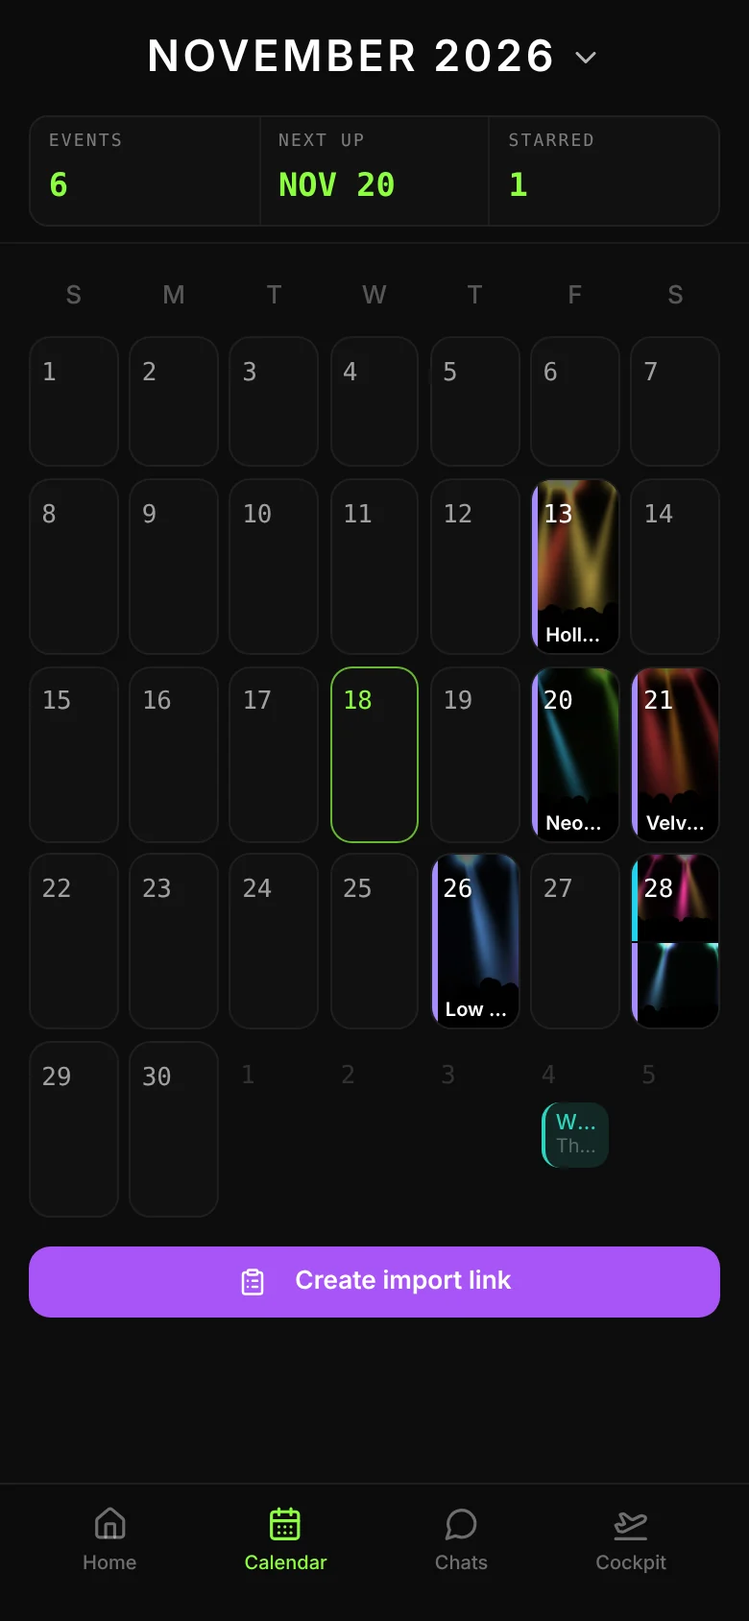
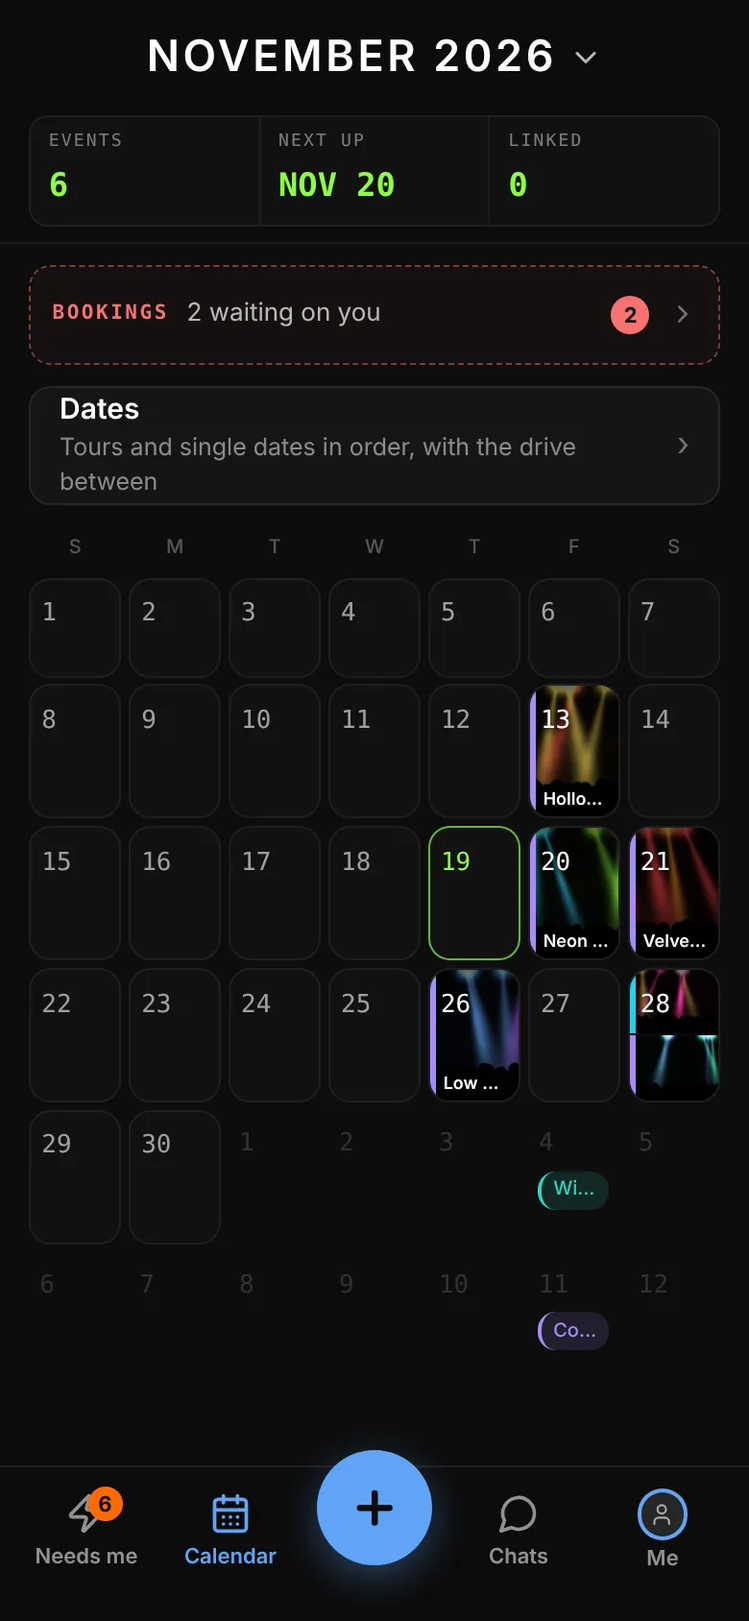
Marketing site: Calendar screens retaken on the venue calendar, without the tech filters and Create intake link (job 373)
The Calendar shots in the Venue and Artist tours were taken on /calendar
(the audio / lighting tech calendar). Retaken at /band/calendar as a venue:
desktop with Neon Harbor picked, phone with Bookings and Dates.

Claude-Session: https://claude.ai/code/session_011F6hS4tKCc4ba8UPZXku15

diff --git a/site/index.html b/site/index.html
@@ -102,7 +102,7 @@
           <div class="tour-list" role="tablist" aria-label="Venue features"><button type="button" role="tab" class="tour-tab" id="t-venue-0" aria-controls="p-venue-0" aria-selected="true"><span class="n">01</span><span class="tt">One page per event<small>Every profile around the show, and how ready each one is.</small></span><span class="meter"><span></span></span></button><button type="button" role="tab" class="tour-tab" id="t-venue-1" aria-controls="p-venue-1" aria-selected="false" tabindex="-1"><span class="n">02</span><span class="tt">Packages in, dates and techs<small>An artist or manager sends a package. Confirm a date, then ask a tech you trust.</small></span><span class="meter"><span></span></span></button><button type="button" role="tab" class="tour-tab" id="t-venue-2" aria-controls="p-venue-2" aria-selected="false" tabindex="-1"><span class="n">03</span><span class="tt">Your venue as a web<small>Your room filled in once, every section a circle. It fills each event, and acts and techs can open it.</small></span><span class="meter"><span></span></span></button><button type="button" role="tab" class="tour-tab" id="t-venue-3" aria-controls="p-venue-3" aria-selected="false" tabindex="-1"><span class="n">04</span><span class="tt">Tasks with due dates<small>Hand out what needs doing, and see who has it and when it&#x27;s due.</small></span><span class="meter"><span></span></span></button><button type="button" role="tab" class="tour-tab" id="t-venue-4" aria-controls="p-venue-4" aria-selected="false" tabindex="-1"><span class="n">05</span><span class="tt">Chat rooms<small>A room for everyone on the event, plus one for each profile.</small></span><span class="meter"><span></span></span></button><button type="button" role="tab" class="tour-tab" id="t-venue-5" aria-controls="p-venue-5" aria-selected="false" tabindex="-1"><span class="n">06</span><span class="tt">Calendar<small>Every event you&#x27;re on, with its photo filling the day.</small></span><span class="meter"><span></span></span></button><button type="button" role="tab" class="tour-tab" id="t-venue-6" aria-controls="p-venue-6" aria-selected="false" tabindex="-1"><span class="n">07</span><span class="tt">Day sheets and PDFs<small>Send a day-of link to door staff or a driver. Each sheet saves as a PDF.</small></span><span class="meter"><span></span></span></button></div>
         </div>
         <div class="tour-stage">
-          <div class="slide" role="tabpanel" id="p-venue-0" aria-labelledby="t-venue-0"><div class="v-desk"><figure class="browser" style="--ar:1.600"><div class="browser-bar" aria-hidden="true"><i></i><i></i><i></i><span>showpilot.space</span></div><img src="/shots/event-web.webp" width="1600" height="1000" loading="lazy" alt="The event web: the event in the middle with Venue, Manager, Artist, Audio and Lights around it, the board and the flight log."></figure></div><div class="v-phone"><figure class="phone"><img src="/shots/event-web-phone.webp" width="600" height="1298" loading="lazy" alt="One page per event on a phone"></figure></div></div><div class="slide" role="tabpanel" id="p-venue-1" aria-labelledby="t-venue-1" hidden><div class="v-desk"><div class="stack" style="--ar:1.546"><figure class="browser step" style="--ar:1.600;left:0.00%;top:0.00%;width:62.50%;z-index:1"><div class="browser-bar" aria-hidden="true"><i></i><i></i><i></i><span>1 · Their package comes in</span></div><img src="/shots/pkg-web.webp" width="1600" height="1000" loading="lazy" alt="1 · Their package comes in"></figure><figure class="browser step" style="--ar:1.600;left:18.75%;top:16.43%;width:62.50%;z-index:2"><div class="browser-bar" aria-hidden="true"><i></i><i></i><i></i><span>2 · Confirm a date</span></div><img src="/shots/pkg-confirm.webp" width="1600" height="1000" loading="lazy" alt="2 · Confirm a date"></figure><figure class="browser step" style="--ar:1.600;left:37.50%;top:32.85%;width:62.50%;z-index:3"><div class="browser-bar" aria-hidden="true"><i></i><i></i><i></i><span>3 · Ask a tech</span></div><img src="/shots/ask-tech.webp" width="1600" height="1000" loading="lazy" alt="A booking package from an artist manager, the three dates they want with one picked to confirm, and Ask a tech with the techs you have worked with."></figure></div></div><div class="v-phone two"><figure class="phone"><img src="/shots/pkg-confirm-phone.webp" width="600" height="1298" loading="lazy" alt="Packages in, dates and techs on a phone"></figure><figure class="phone"><img src="/shots/ask-tech-phone.webp" width="600" height="1298" loading="lazy" alt="Packages in, dates and techs"></figure></div></div><div class="slide" role="tabpanel" id="p-venue-2" aria-labelledby="t-venue-2" hidden><div class="v-desk"><figure class="browser" style="--ar:1.600"><div class="browser-bar" aria-hidden="true"><i></i><i></i><i></i><span>showpilot.space</span></div><img src="/shots/venue-web.webp" width="1600" height="1000" loading="lazy" alt="The Foundry Hall as a web: venue and address, load-in, schedule, Wi-Fi and power, house gear and hospitality, with House gear open."></figure></div><div class="v-phone"><figure class="phone"><img src="/shots/venue-web-phone.webp" width="600" height="1298" loading="lazy" alt="Your venue as a web on a phone"></figure></div></div><div class="slide" role="tabpanel" id="p-venue-3" aria-labelledby="t-venue-3" hidden><div class="v-desk"><figure class="browser" style="--ar:1.600"><div class="browser-bar" aria-hidden="true"><i></i><i></i><i></i><span>showpilot.space</span></div><img src="/shots/tasks.webp" width="1600" height="1000" loading="lazy" alt="Tasks in a column for each profile, each with a due date and who has claimed it."></figure></div><div class="v-phone"><figure class="phone"><img src="/shots/tasks-phone.webp" width="600" height="1298" loading="lazy" alt="Tasks with due dates on a phone"></figure></div></div><div class="slide" role="tabpanel" id="p-venue-4" aria-labelledby="t-venue-4" hidden><div class="v-desk"><figure class="browser" style="--ar:1.600"><div class="browser-bar" aria-hidden="true"><i></i><i></i><i></i><span>showpilot.space</span></div><img src="/shots/rooms.webp" width="1600" height="1000" loading="lazy" alt="The event&#x27;s General chat room with messages from the manager, venue and engineer."></figure></div><div class="v-phone"><figure class="phone"><img src="/shots/rooms-phone.webp" width="600" height="1298" loading="lazy" alt="Chat rooms on a phone"></figure></div></div><div class="slide" role="tabpanel" id="p-venue-5" aria-labelledby="t-venue-5" hidden><div class="v-desk"><figure class="browser" style="--ar:1.600"><div class="browser-bar" aria-hidden="true"><i></i><i></i><i></i><span>showpilot.space</span></div><img src="/shots/calendar.webp" width="1600" height="1000" loading="lazy" alt="The month calendar with each event photo filling its day."></figure></div><div class="v-phone"><figure class="phone"><img src="/shots/calendar-phone.webp" width="600" height="1298" loading="lazy" alt="Calendar on a phone"></figure></div></div><div class="slide" role="tabpanel" id="p-venue-6" aria-labelledby="t-venue-6" hidden><div class="v-desk"><figure class="browser" style="--ar:1.600"><div class="browser-bar" aria-hidden="true"><i></i><i></i><i></i><span>showpilot.space</span></div><img src="/shots/dayof-sheet-desk.webp" width="1600" height="1000" loading="lazy" alt="The day-of schedule and the contact sheet, each with Save PDF."></figure></div><div class="v-phone two"><figure class="phone"><img src="/shots/dayof-sheet.webp" width="600" height="1298" loading="lazy" alt="Day sheets and PDFs on a phone"></figure><figure class="phone"><img src="/shots/dayof-contacts.webp" width="600" height="1298" loading="lazy" alt="Day sheets and PDFs"></figure></div></div>
+          <div class="slide" role="tabpanel" id="p-venue-0" aria-labelledby="t-venue-0"><div class="v-desk"><figure class="browser" style="--ar:1.600"><div class="browser-bar" aria-hidden="true"><i></i><i></i><i></i><span>showpilot.space</span></div><img src="/shots/event-web.webp" width="1600" height="1000" loading="lazy" alt="The event web: the event in the middle with Venue, Manager, Artist, Audio and Lights around it, the board and the flight log."></figure></div><div class="v-phone"><figure class="phone"><img src="/shots/event-web-phone.webp" width="600" height="1298" loading="lazy" alt="One page per event on a phone"></figure></div></div><div class="slide" role="tabpanel" id="p-venue-1" aria-labelledby="t-venue-1" hidden><div class="v-desk"><div class="stack" style="--ar:1.546"><figure class="browser step" style="--ar:1.600;left:0.00%;top:0.00%;width:62.50%;z-index:1"><div class="browser-bar" aria-hidden="true"><i></i><i></i><i></i><span>1 · Their package comes in</span></div><img src="/shots/pkg-web.webp" width="1600" height="1000" loading="lazy" alt="1 · Their package comes in"></figure><figure class="browser step" style="--ar:1.600;left:18.75%;top:16.43%;width:62.50%;z-index:2"><div class="browser-bar" aria-hidden="true"><i></i><i></i><i></i><span>2 · Confirm a date</span></div><img src="/shots/pkg-confirm.webp" width="1600" height="1000" loading="lazy" alt="2 · Confirm a date"></figure><figure class="browser step" style="--ar:1.600;left:37.50%;top:32.85%;width:62.50%;z-index:3"><div class="browser-bar" aria-hidden="true"><i></i><i></i><i></i><span>3 · Ask a tech</span></div><img src="/shots/ask-tech.webp" width="1600" height="1000" loading="lazy" alt="A booking package from an artist manager, the three dates they want with one picked to confirm, and Ask a tech with the techs you have worked with."></figure></div></div><div class="v-phone two"><figure class="phone"><img src="/shots/pkg-confirm-phone.webp" width="600" height="1298" loading="lazy" alt="Packages in, dates and techs on a phone"></figure><figure class="phone"><img src="/shots/ask-tech-phone.webp" width="600" height="1298" loading="lazy" alt="Packages in, dates and techs"></figure></div></div><div class="slide" role="tabpanel" id="p-venue-2" aria-labelledby="t-venue-2" hidden><div class="v-desk"><figure class="browser" style="--ar:1.600"><div class="browser-bar" aria-hidden="true"><i></i><i></i><i></i><span>showpilot.space</span></div><img src="/shots/venue-web.webp" width="1600" height="1000" loading="lazy" alt="The Foundry Hall as a web: venue and address, load-in, schedule, Wi-Fi and power, house gear and hospitality, with House gear open."></figure></div><div class="v-phone"><figure class="phone"><img src="/shots/venue-web-phone.webp" width="600" height="1298" loading="lazy" alt="Your venue as a web on a phone"></figure></div></div><div class="slide" role="tabpanel" id="p-venue-3" aria-labelledby="t-venue-3" hidden><div class="v-desk"><figure class="browser" style="--ar:1.600"><div class="browser-bar" aria-hidden="true"><i></i><i></i><i></i><span>showpilot.space</span></div><img src="/shots/tasks.webp" width="1600" height="1000" loading="lazy" alt="Tasks in a column for each profile, each with a due date and who has claimed it."></figure></div><div class="v-phone"><figure class="phone"><img src="/shots/tasks-phone.webp" width="600" height="1298" loading="lazy" alt="Tasks with due dates on a phone"></figure></div></div><div class="slide" role="tabpanel" id="p-venue-4" aria-labelledby="t-venue-4" hidden><div class="v-desk"><figure class="browser" style="--ar:1.600"><div class="browser-bar" aria-hidden="true"><i></i><i></i><i></i><span>showpilot.space</span></div><img src="/shots/rooms.webp" width="1600" height="1000" loading="lazy" alt="The event&#x27;s General chat room with messages from the manager, venue and engineer."></figure></div><div class="v-phone"><figure class="phone"><img src="/shots/rooms-phone.webp" width="600" height="1298" loading="lazy" alt="Chat rooms on a phone"></figure></div></div><div class="slide" role="tabpanel" id="p-venue-5" aria-labelledby="t-venue-5" hidden><div class="v-desk"><figure class="browser" style="--ar:1.600"><div class="browser-bar" aria-hidden="true"><i></i><i></i><i></i><span>showpilot.space</span></div><img src="/shots/calendar.webp" width="1600" height="1000" loading="lazy" alt="The venue calendar: each event photo filling its day, with Neon Harbor picked and its tasks and run of show beside it."></figure></div><div class="v-phone"><figure class="phone"><img src="/shots/calendar-phone.webp" width="600" height="1298" loading="lazy" alt="Calendar on a phone"></figure></div></div><div class="slide" role="tabpanel" id="p-venue-6" aria-labelledby="t-venue-6" hidden><div class="v-desk"><figure class="browser" style="--ar:1.600"><div class="browser-bar" aria-hidden="true"><i></i><i></i><i></i><span>showpilot.space</span></div><img src="/shots/dayof-sheet-desk.webp" width="1600" height="1000" loading="lazy" alt="The day-of schedule and the contact sheet, each with Save PDF."></figure></div><div class="v-phone two"><figure class="phone"><img src="/shots/dayof-sheet.webp" width="600" height="1298" loading="lazy" alt="Day sheets and PDFs on a phone"></figure><figure class="phone"><img src="/shots/dayof-contacts.webp" width="600" height="1298" loading="lazy" alt="Day sheets and PDFs"></figure></div></div>
           <div class="tour-nav">
             <button type="button" class="round" data-prev aria-label="Previous feature"><svg viewBox="0 0 24 24" aria-hidden="true"><path d="M15 18l-6-6 6-6"/></svg></button>
             <button type="button" class="round" data-play aria-label="Pause the slideshow"><svg class="i-pause" viewBox="0 0 24 24" aria-hidden="true"><path d="M9 6v12M15 6v12"/></svg><svg class="i-play" viewBox="0 0 24 24" aria-hidden="true"><path d="M8 5l11 7-11 7z"/></svg></button>
@@ -117,7 +117,7 @@
           <div class="tour-list" role="tablist" aria-label="Artist / DJ features"><button type="button" role="tab" class="tour-tab" id="t-band-0" aria-controls="p-band-0" aria-selected="true"><span class="n">01</span><span class="tt">Book a date from your template<small>Book a date opens as a web around your act, with your contact and tech rider already filled in from your template.</small></span><span class="meter"><span></span></span></button><button type="button" role="tab" class="tour-tab" id="t-band-1" aria-controls="p-band-1" aria-selected="false" tabindex="-1"><span class="n">02</span><span class="tt">Your stage plot, built once<small>Put each member on the stage. Open a line for their inputs: Mic or DI, +48V, and IEM or monitor.</small></span><span class="meter"><span></span></span></button><button type="button" role="tab" class="tour-tab" id="t-band-2" aria-controls="p-band-2" aria-selected="false" tabindex="-1"><span class="n">03</span><span class="tt">Tech rider with your stage plot<small>The stage plot and inputs from your template ride along with every booking.</small></span><span class="meter"><span></span></span></button><button type="button" role="tab" class="tour-tab" id="t-band-3" aria-controls="p-band-3" aria-selected="false" tabindex="-1"><span class="n">04</span><span class="tt">One page per event<small>Every profile around the show, and how ready each one is.</small></span><span class="meter"><span></span></span></button><button type="button" role="tab" class="tour-tab" id="t-band-4" aria-controls="p-band-4" aria-selected="false" tabindex="-1"><span class="n">05</span><span class="tt">Chat rooms<small>A room for everyone on the event, plus one for each profile.</small></span><span class="meter"><span></span></span></button><button type="button" role="tab" class="tour-tab" id="t-band-5" aria-controls="p-band-5" aria-selected="false" tabindex="-1"><span class="n">06</span><span class="tt">DJ Tools<small>Set links for each DJ. WAVs land in your own Google Drive.</small></span><span class="meter"><span></span></span></button><button type="button" role="tab" class="tour-tab" id="t-band-6" aria-controls="p-band-6" aria-selected="false" tabindex="-1"><span class="n">07</span><span class="tt">Calendar<small>Every event you&#x27;re on, with its photo filling the day.</small></span><span class="meter"><span></span></span></button></div>
         </div>
         <div class="tour-stage">
-          <div class="slide" role="tabpanel" id="p-band-0" aria-labelledby="t-band-0"><div class="v-desk"><figure class="browser" style="--ar:1.600"><div class="browser-bar" aria-hidden="true"><i></i><i></i><i></i><span>showpilot.space</span></div><img src="/shots/book-act.webp" width="1600" height="1000" loading="lazy" alt="Book a date as a web around the act: contact and tech rider already done from the template, the rest still to fill in."></figure></div><div class="v-phone"><figure class="phone"><img src="/shots/book-act-phone.webp" width="600" height="1298" loading="lazy" alt="Book a date from your template on a phone"></figure></div></div><div class="slide" role="tabpanel" id="p-band-1" aria-labelledby="t-band-1" hidden><div class="v-desk"><figure class="browser" style="--ar:1.600"><div class="browser-bar" aria-hidden="true"><i></i><i></i><i></i><span>showpilot.space</span></div><img src="/shots/stage-plot-open.webp" width="1600" height="1000" loading="lazy" alt="The stage plot with Marcus Dade&#x27;s line open: vocals, guitar on a mic, acoustic on a DI with +48V, and a monitor."></figure></div><div class="v-phone"><figure class="phone"><img src="/shots/stage-plot-open-phone.webp" width="600" height="1298" loading="lazy" alt="Your stage plot, built once on a phone"></figure></div></div><div class="slide" role="tabpanel" id="p-band-2" aria-labelledby="t-band-2" hidden><div class="v-desk"><figure class="browser" style="--ar:1.600"><div class="browser-bar" aria-hidden="true"><i></i><i></i><i></i><span>showpilot.space</span></div><img src="/shots/book-rider.webp" width="1600" height="1000" loading="lazy" alt="Book a date, Tech rider: the Show Pilot stage plot from My Template, 5 members and 9 inputs."></figure></div><div class="v-phone"><figure class="phone"><img src="/shots/book-rider-phone.webp" width="600" height="1298" loading="lazy" alt="Tech rider with your stage plot on a phone"></figure></div></div><div class="slide" role="tabpanel" id="p-band-3" aria-labelledby="t-band-3" hidden><div class="v-desk"><figure class="browser" style="--ar:1.600"><div class="browser-bar" aria-hidden="true"><i></i><i></i><i></i><span>showpilot.space</span></div><img src="/shots/event-web.webp" width="1600" height="1000" loading="lazy" alt="The event web: the event in the middle with Venue, Manager, Artist, Audio and Lights around it, the board and the flight log."></figure></div><div class="v-phone"><figure class="phone"><img src="/shots/event-web-phone.webp" width="600" height="1298" loading="lazy" alt="One page per event on a phone"></figure></div></div><div class="slide" role="tabpanel" id="p-band-4" aria-labelledby="t-band-4" hidden><div class="v-desk"><figure class="browser" style="--ar:1.600"><div class="browser-bar" aria-hidden="true"><i></i><i></i><i></i><span>showpilot.space</span></div><img src="/shots/rooms.webp" width="1600" height="1000" loading="lazy" alt="The event&#x27;s General chat room with messages from the manager, venue and engineer."></figure></div><div class="v-phone"><figure class="phone"><img src="/shots/rooms-phone.webp" width="600" height="1298" loading="lazy" alt="Chat rooms on a phone"></figure></div></div><div class="slide" role="tabpanel" id="p-band-5" aria-labelledby="t-band-5" hidden><div class="v-desk"><figure class="browser" style="--ar:1.600"><div class="browser-bar" aria-hidden="true"><i></i><i></i><i></i><span>showpilot.space</span></div><img src="/shots/dj-tools.webp" width="1600" height="1000" loading="lazy" alt="DJ Tools: a set link with the running order and which DJs have sent their set."></figure></div><div class="v-phone"><figure class="phone"><img src="/shots/dj-tools-phone.webp" width="600" height="1298" loading="lazy" alt="DJ Tools on a phone"></figure></div></div><div class="slide" role="tabpanel" id="p-band-6" aria-labelledby="t-band-6" hidden><div class="v-desk"><figure class="browser" style="--ar:1.600"><div class="browser-bar" aria-hidden="true"><i></i><i></i><i></i><span>showpilot.space</span></div><img src="/shots/calendar.webp" width="1600" height="1000" loading="lazy" alt="The month calendar with each event photo filling its day."></figure></div><div class="v-phone"><figure class="phone"><img src="/shots/calendar-phone.webp" width="600" height="1298" loading="lazy" alt="Calendar on a phone"></figure></div></div>
+          <div class="slide" role="tabpanel" id="p-band-0" aria-labelledby="t-band-0"><div class="v-desk"><figure class="browser" style="--ar:1.600"><div class="browser-bar" aria-hidden="true"><i></i><i></i><i></i><span>showpilot.space</span></div><img src="/shots/book-act.webp" width="1600" height="1000" loading="lazy" alt="Book a date as a web around the act: contact and tech rider already done from the template, the rest still to fill in."></figure></div><div class="v-phone"><figure class="phone"><img src="/shots/book-act-phone.webp" width="600" height="1298" loading="lazy" alt="Book a date from your template on a phone"></figure></div></div><div class="slide" role="tabpanel" id="p-band-1" aria-labelledby="t-band-1" hidden><div class="v-desk"><figure class="browser" style="--ar:1.600"><div class="browser-bar" aria-hidden="true"><i></i><i></i><i></i><span>showpilot.space</span></div><img src="/shots/stage-plot-open.webp" width="1600" height="1000" loading="lazy" alt="The stage plot with Marcus Dade&#x27;s line open: vocals, guitar on a mic, acoustic on a DI with +48V, and a monitor."></figure></div><div class="v-phone"><figure class="phone"><img src="/shots/stage-plot-open-phone.webp" width="600" height="1298" loading="lazy" alt="Your stage plot, built once on a phone"></figure></div></div><div class="slide" role="tabpanel" id="p-band-2" aria-labelledby="t-band-2" hidden><div class="v-desk"><figure class="browser" style="--ar:1.600"><div class="browser-bar" aria-hidden="true"><i></i><i></i><i></i><span>showpilot.space</span></div><img src="/shots/book-rider.webp" width="1600" height="1000" loading="lazy" alt="Book a date, Tech rider: the Show Pilot stage plot from My Template, 5 members and 9 inputs."></figure></div><div class="v-phone"><figure class="phone"><img src="/shots/book-rider-phone.webp" width="600" height="1298" loading="lazy" alt="Tech rider with your stage plot on a phone"></figure></div></div><div class="slide" role="tabpanel" id="p-band-3" aria-labelledby="t-band-3" hidden><div class="v-desk"><figure class="browser" style="--ar:1.600"><div class="browser-bar" aria-hidden="true"><i></i><i></i><i></i><span>showpilot.space</span></div><img src="/shots/event-web.webp" width="1600" height="1000" loading="lazy" alt="The event web: the event in the middle with Venue, Manager, Artist, Audio and Lights around it, the board and the flight log."></figure></div><div class="v-phone"><figure class="phone"><img src="/shots/event-web-phone.webp" width="600" height="1298" loading="lazy" alt="One page per event on a phone"></figure></div></div><div class="slide" role="tabpanel" id="p-band-4" aria-labelledby="t-band-4" hidden><div class="v-desk"><figure class="browser" style="--ar:1.600"><div class="browser-bar" aria-hidden="true"><i></i><i></i><i></i><span>showpilot.space</span></div><img src="/shots/rooms.webp" width="1600" height="1000" loading="lazy" alt="The event&#x27;s General chat room with messages from the manager, venue and engineer."></figure></div><div class="v-phone"><figure class="phone"><img src="/shots/rooms-phone.webp" width="600" height="1298" loading="lazy" alt="Chat rooms on a phone"></figure></div></div><div class="slide" role="tabpanel" id="p-band-5" aria-labelledby="t-band-5" hidden><div class="v-desk"><figure class="browser" style="--ar:1.600"><div class="browser-bar" aria-hidden="true"><i></i><i></i><i></i><span>showpilot.space</span></div><img src="/shots/dj-tools.webp" width="1600" height="1000" loading="lazy" alt="DJ Tools: a set link with the running order and which DJs have sent their set."></figure></div><div class="v-phone"><figure class="phone"><img src="/shots/dj-tools-phone.webp" width="600" height="1298" loading="lazy" alt="DJ Tools on a phone"></figure></div></div><div class="slide" role="tabpanel" id="p-band-6" aria-labelledby="t-band-6" hidden><div class="v-desk"><figure class="browser" style="--ar:1.600"><div class="browser-bar" aria-hidden="true"><i></i><i></i><i></i><span>showpilot.space</span></div><img src="/shots/calendar.webp" width="1600" height="1000" loading="lazy" alt="The venue calendar: each event photo filling its day, with Neon Harbor picked and its tasks and run of show beside it."></figure></div><div class="v-phone"><figure class="phone"><img src="/shots/calendar-phone.webp" width="600" height="1298" loading="lazy" alt="Calendar on a phone"></figure></div></div>
           <div class="tour-nav">
             <button type="button" class="round" data-prev aria-label="Previous feature"><svg viewBox="0 0 24 24" aria-hidden="true"><path d="M15 18l-6-6 6-6"/></svg></button>
             <button type="button" class="round" data-play aria-label="Pause the slideshow"><svg class="i-pause" viewBox="0 0 24 24" aria-hidden="true"><path d="M9 6v12M15 6v12"/></svg><svg class="i-play" viewBox="0 0 24 24" aria-hidden="true"><path d="M8 5l11 7-11 7z"/></svg></button>

diff --git a/scripts/build-site-tour.py b/scripts/build-site-tour.py
@@ -30,7 +30,7 @@ F = {
   'loadvenue': ('Your venue as a web', 'Your room filled in once, every section a circle. It fills each event, and acts and techs can open it.', 'venue-web', ['venue-web-phone'], 'The Foundry Hall as a web: venue and address, load-in, schedule, Wi-Fi and power, house gear and hospitality, with House gear open.'),
   'tasks': ('Tasks with due dates', "Hand out what needs doing, and see who has it and when it's due.", 'tasks', ['tasks-phone'], 'Tasks in a column for each profile, each with a due date and who has claimed it.'),
   'rooms': ('Chat rooms', 'A room for everyone on the event, plus one for each profile.', 'rooms', ['rooms-phone'], "The event's General chat room with messages from the manager, venue and engineer."),
-  'calendar': ('Calendar', "Every event you're on, with its photo filling the day.", 'calendar', ['calendar-phone'], 'The month calendar with each event photo filling its day.'),
+  'calendar': ('Calendar', "Every event you're on, with its photo filling the day.", 'calendar', ['calendar-phone'], 'The venue calendar: each event photo filling its day, with Neon Harbor picked and its tasks and run of show beside it.'),
   'dayof': ('Day sheets and PDFs', 'Send a day-of link to door staff or a driver. Each sheet saves as a PDF.', 'dayof-sheet-desk', ['dayof-sheet', 'dayof-contacts'], 'The day-of schedule and the contact sheet, each with Save PDF.'),
   'book': ('Book a date from your template', 'Book a date opens as a web around your act, with your contact and tech rider already filled in from your template.', 'book-act', ['book-act-phone'], 'Book a date as a web around the act: contact and tech rider already done from the template, the rest still to fill in.'),
   'stagetpl': ('Your stage plot, built once', 'Put each member on the stage. Open a line for their inputs: Mic or DI, +48V, and IEM or monitor.', 'stage-plot-open', ['stage-plot-open-phone'], "The stage plot with Marcus Dade's line open: vocals, guitar on a mic, acoustic on a DI with +48V, and a monitor."),
